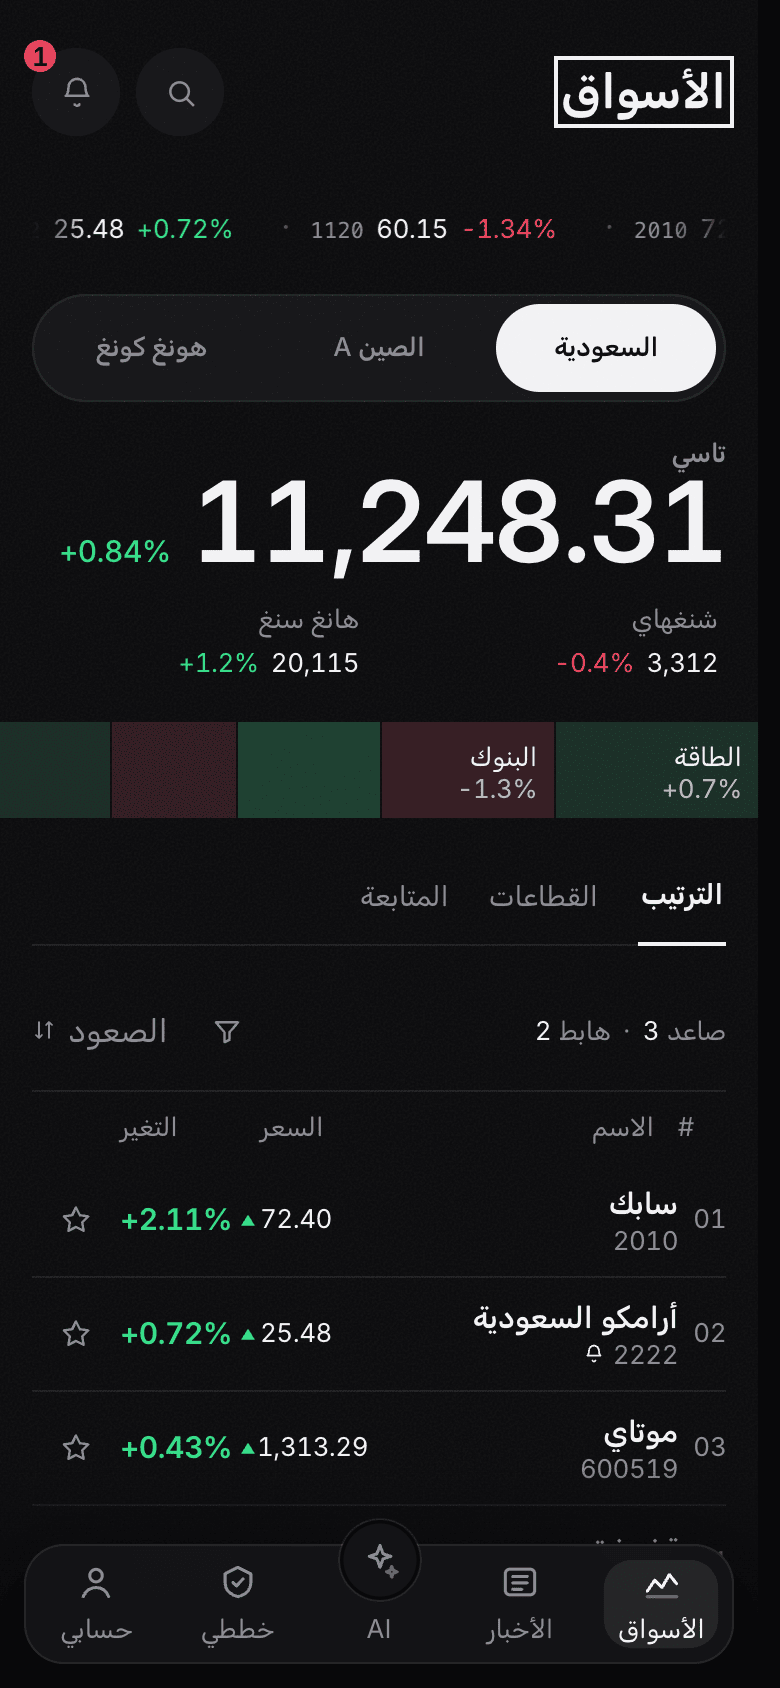
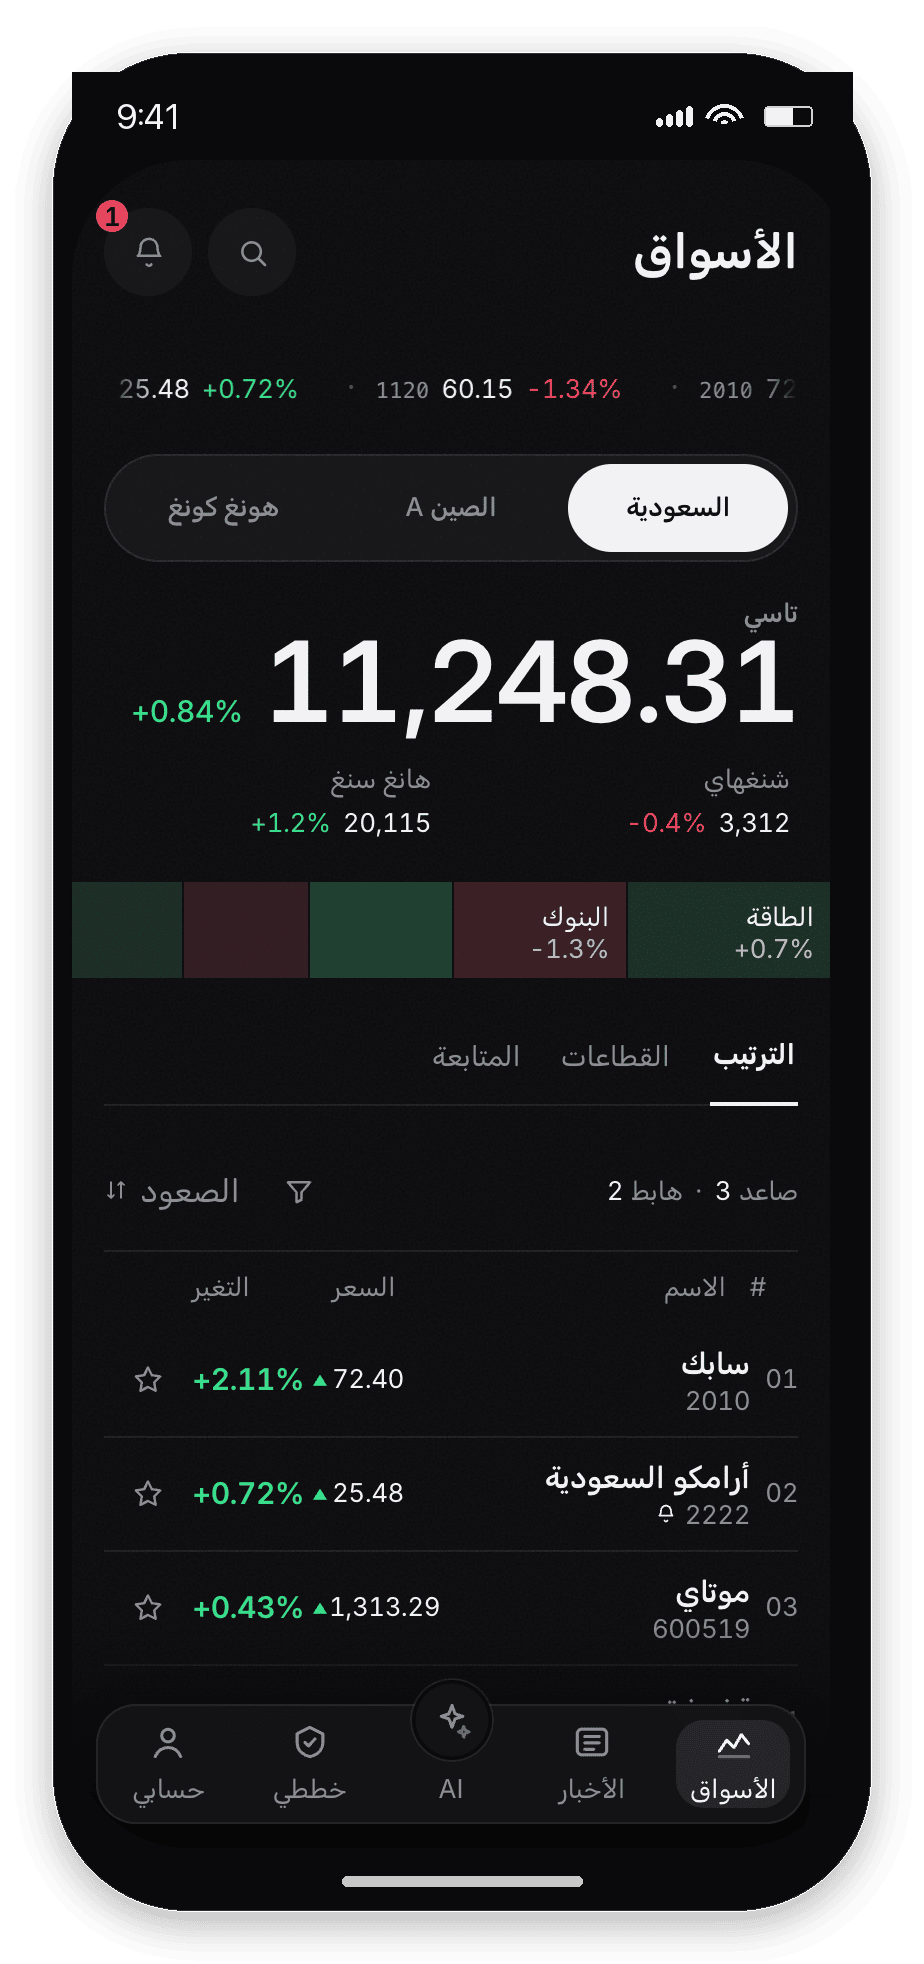
fix(docs): put the screenshots in a phone, and take the focus rings out
INTENDED
- "They are not phone screenshots": the README showed raw 780x1688 browser
  viewports. And some had a rectangle around a heading, which was the focus ring.

ACTUAL
- `web/scripts/screenshots.mjs` + `web/scripts/frame.py`, run by `npm run shots`:
  capture at 390x844 DPR 2, blur the router's focus target, hide the scrollbar,
  then draw a phone body — rounded screen, bezel, status bar with clock, signal,
  wifi and battery, a home indicator and a soft shadow.
- The focus ring was real: `Screen` moves focus to the page heading on every
  route change, and Chromium paints `:focus-visible` on a programmatic focus at
  load. The capture now asserts `document.querySelectorAll(':focus-visible')
  .length === 0` before it shoots, and prints it per screen.
- Nine framed shots replace the eight raw ones; the refusal receipt joins the set
  so every image is framed the same way. Raw captures go to a gitignored
  `docs/screenshots/raw/`, so the set is rebuilt rather than hand-edited.

DRIFT
- README column width 170 -> 200 to account for the frame's own padding.

VERIFIED
- Every shot: 924x1964, corner alpha 0 (rounded), status bar carries ~2.4k
  bright pixels (clock + icons drawn), screen content unchanged (mean luminance
  matches the raw capture within 1.5), `:focus-visible` count 0 on all nine.
- Tracked screenshot folder ~1.7MB; `raw/` ignored.
- README local refs: none broken; no `mobile-refusal` reference left.

diff --git a/web/scripts/frame.py b/web/scripts/frame.py
@@ -1,0 +1,165 @@
+import subprocess
+from pathlib import Path
+
+from PIL import Image, ImageDraw, ImageFilter, ImageFont
+
+"""
+Wrap a raw 390x844 @2x capture in a phone body.
+
+The README shows a mobile app, so the images should read as phones: rounded
+screen, a bezel, a status bar with the clock and the battery, a home indicator
+and a shadow. Everything here is drawn, not photographed, so the same script
+reproduces the set on any machine.
+
+Run after `screenshots.mjs`; it reads `docs/screenshots/raw/*.png`.
+"""
+
+ROOT = Path(__file__).resolve().parents[2]
+SOURCE = ROOT / "docs" / "screenshots" / "raw"
+TARGET = ROOT / "docs" / "screenshots"
+
+SCALE = 2  # the captures are 2x
+
+# Geometry in points, multiplied by SCALE when drawn.
+BEZEL = 10
+SCREEN_RADIUS = 58
+STATUS_H = 44
+INDICATOR_H = 22
+SHADOW = 26
+
+BODY = (10, 10, 12, 255)
+BODY_EDGE = (46, 46, 52, 255)
+STATUS_BG = (10, 10, 12, 255)
+FS = None
+
+
+def dims(screen: Image.Image):
+    w, h = screen.size
+    inner_w = w + 2 * BEZEL * SCALE
+    inner_h = h + (STATUS_H + INDICATOR_H + 2 * BEZEL) * SCALE
+    return inner_w, inner_h
+
+
+def font(size: int):
+    for candidate in (
+        "/System/Library/Fonts/SFNS.ttf",
+        "/System/Library/Fonts/Supplemental/Arial.ttf",
+        "/Library/Fonts/Arial.ttf",
+    ):
+        if Path(candidate).exists():
+            try:
+                return ImageFont.truetype(candidate, size)
+            except OSError:
+                continue
+    return ImageFont.load_default(size=size)
+
+
+def rounded(size, radius, fill):
+    layer = Image.new("RGBA", size, (0, 0, 0, 0))
+    ImageDraw.Draw(layer).rounded_rectangle([0, 0, size[0] - 1, size[1] - 1], radius, fill=fill)
+    return layer
+
+
+def wrap(screen: Image.Image) -> Image.Image:
+    w, h = screen.size
+    body_w, body_h = dims(screen)
+    radius = (SCREEN_RADIUS + BEZEL) * SCALE
+
+    body = rounded((body_w, body_h), radius, BODY)
+    edge = rounded((body_w, body_h), radius, None)
+    ImageDraw.Draw(edge).rounded_rectangle(
+        [0, 0, body_w - 1, body_h - 1], radius, outline=BODY_EDGE, width=2
+    )
+    body = Image.alpha_composite(body, edge)
+
+    # The status bar is device chrome, so it is drawn, not captured.
+    status_top = BEZEL * SCALE
+    draw = ImageDraw.Draw(body)
+    draw.rounded_rectangle(
+        [0, 0, body_w - 1, body_h - 1], radius, outline=None
+    )
+    status_h = STATUS_H * SCALE
+    draw.rectangle(
+        [BEZEL * SCALE, status_top, body_w - BEZEL * SCALE, status_top + status_h],
+        fill=STATUS_BG,
+    )
+
+    clock = font(17 * SCALE)
+    draw.text(
+        (BEZEL * SCALE + 22 * SCALE, status_top + status_h / 2),
+        "9:41",
+        font=clock,
+        fill=(245, 245, 248, 255),
+        anchor="lm",
+    )
+
+    # Signal, wifi, battery: three shapes, no font dependency.
+    right = body_w - BEZEL * SCALE - 20 * SCALE
+    mid = status_top + status_h / 2
+    bar_w, gap = 3 * SCALE, 2 * SCALE
+    for index, height in enumerate((4, 6, 8, 10)):
+        x = right - 78 * SCALE + index * (bar_w + gap)
+        draw.rounded_rectangle(
+            [x, mid + 5 * SCALE - height * SCALE, x + bar_w, mid + 5 * SCALE],
+            bar_w / 2,
+            fill=(240, 240, 245, 255),
+        )
+    wifi_cx, wifi_cy = right - 44 * SCALE, mid + 4 * SCALE
+    for span in (10, 6, 2):
+        draw.arc(
+            [wifi_cx - span * SCALE, wifi_cy - span * SCALE, wifi_cx + span * SCALE, wifi_cy + span * SCALE],
+            200,
+            340,
+            fill=(240, 240, 245, 255),
+            width=2 * SCALE,
+        )
+    battery = [right - 24 * SCALE, mid - 5 * SCALE, right, mid + 5 * SCALE]
+    draw.rounded_rectangle(battery, 2 * SCALE, outline=(240, 240, 245, 200), width=1 * SCALE)
+    draw.rectangle([battery[0] + SCALE, battery[1] + SCALE, battery[0] + 14 * SCALE, battery[3] - SCALE], fill=(240, 240, 245, 255))
+
+    screen_top = status_top + status_h
+    mask = rounded((w, h), SCREEN_RADIUS * SCALE, (255, 255, 255, 255))
+    body.paste(screen, (BEZEL * SCALE, screen_top), mask)
+
+    # Home indicator, over the 12pt gap under the floating tab bar.
+    draw = ImageDraw.Draw(body)
+    ind_w, ind_h = 120 * SCALE, 5 * SCALE
+    ind_y = body_h - BEZEL * SCALE - 8 * SCALE
+    draw.rounded_rectangle(
+        [(body_w - ind_w) / 2, ind_y, (body_w + ind_w) / 2, ind_y + ind_h],
+        ind_h / 2,
+        fill=(235, 235, 240, 120),
+    )
+
+    canvas = Image.new("RGBA", (body_w + 2 * SHADOW * SCALE, body_h + 2 * SHADOW * SCALE), (0, 0, 0, 0))
+    shadow = Image.new("RGBA", canvas.size, (0, 0, 0, 0))
+    shadow.paste(
+        rounded((body_w, body_h), radius, (0, 0, 0, 140)),
+        (SHADOW * SCALE, SHADOW * SCALE + 6 * SCALE),
+        rounded((body_w, body_h), radius, (0, 0, 0, 140)),
+    )
+    canvas = Image.alpha_composite(canvas, shadow.filter(ImageFilter.GaussianBlur(10 * SCALE)))
+    canvas.paste(body, (SHADOW * SCALE, SHADOW * SCALE), body)
+    return canvas
+
+
+def main():
+    raw = sorted(SOURCE.glob("*.png"))
+    if not raw:
+        raise SystemExit(f"no raw captures in {SOURCE}")
+    for path in raw:
+        with Image.open(path) as screen:
+            framed = wrap(screen.convert("RGBA"))
+        out = TARGET / f"phone-{path.stem}.png"
+        framed.save(out, optimize=True)
+        # Quantise in place; alpha edges survive at 70-90 quality.
+        subprocess.run(
+            ["pngquant", "--quality=70-92", "--speed", "1", "--force", "--output", str(out), str(out)],
+            check=False,
+            capture_output=True,
+        )
+        print(f"{out.name} {framed.size[0]}x{framed.size[1]} {out.stat().st_size // 1024}KB")
+
+
+if __name__ == "__main__":
+    main()

diff --git a/README.md b/README.md
@@ -6,13 +6,17 @@ and العربية, with full RTL.
 
 | Markets | Stock | News | AI |
 |---|---|---|---|
-| <img src="docs/screenshots/phone-market.png" width="170" alt="Market screen: index masthead, sector strip and the ranked list"> | <img src="docs/screenshots/phone-symbol.png" width="170" alt="Stock screen: the rules it matches"> | <img src="docs/screenshots/phone-news.png" width="170" alt="News feed for today"> | <img src="docs/screenshots/phone-ai.png" width="170" alt="AI tab: a pre-recorded answer with a rule table"> |
+| <img src="docs/screenshots/phone-market.png" width="200" alt="Market screen: index masthead, sector strip and the ranked list"> | <img src="docs/screenshots/phone-symbol.png" width="200" alt="Stock screen: the rules it matches"> | <img src="docs/screenshots/phone-news.png" width="200" alt="News feed for today"> | <img src="docs/screenshots/phone-ai.png" width="200" alt="AI tab: a pre-recorded answer with a rule table"> |
 | <sub>masthead, sector strip, ranked list</sub> | <sub>the rules it matches</sub> | <sub>today, and the symbols it touches</sub> | <sub>rules, then every figure marked untraced</sub> |
 
 | Strategy | Screener | Arabic | Light |
 |---|---|---|---|
-| <img src="docs/screenshots/phone-strategy.png" width="170" alt="Strategy detail: return, growth curve and rules"> | <img src="docs/screenshots/phone-screener.png" width="170" alt="Screener: conditions and the grid check"> | <img src="docs/screenshots/phone-arabic.png" width="170" alt="The market screen in Arabic, right to left"> | <img src="docs/screenshots/phone-light.png" width="170" alt="The market screen in the light theme"> |
+| <img src="docs/screenshots/phone-strategy.png" width="200" alt="Strategy detail: return, growth curve and rules"> | <img src="docs/screenshots/phone-screener.png" width="200" alt="Screener: conditions and the grid check"> | <img src="docs/screenshots/phone-arabic.png" width="200" alt="The market screen in Arabic, right to left"> | <img src="docs/screenshots/phone-light.png" width="200" alt="The market screen in the light theme"> |
 | <sub>return, curve, then the conditions</sub> | <sub>conditions, then the grid check</sub> | <sub>mirrored, Latin digits</sub> | <sub>same layout, same contrast floor</sub> |
+
+Every image above is generated: `npm run shots` in `web/` captures the eight
+screens at 390×844 and wraps each in a phone body, so the set can be rebuilt
+instead of hand-edited.
 
 Demo-first, no provider key required. It is **not** a broker, an execution system,
 or investment advice, and no order is ever placed.
@@ -34,7 +38,7 @@ No network, no key, no login — the app opens in demo mode.
 5. **`/ai`** — ask "cheap, low debt, Sharia screen" and a pre-recorded answer
    answers in the product's own shape: a rule table, then a count of numbers with
    none traced, and every figure struck through because no run backs it. Ask for a buy call
-   instead and you get a stamped refusal receipt ([screenshot](docs/screenshots/mobile-refusal.png)).
+   instead and you get a stamped refusal receipt ([screenshot](docs/screenshots/phone-refusal.png)).
 6. **`/ai/provider`** — connect your own model when you want the live path.
 
 Long-press any row anywhere and its symbol becomes a chip in the AI composer, so
